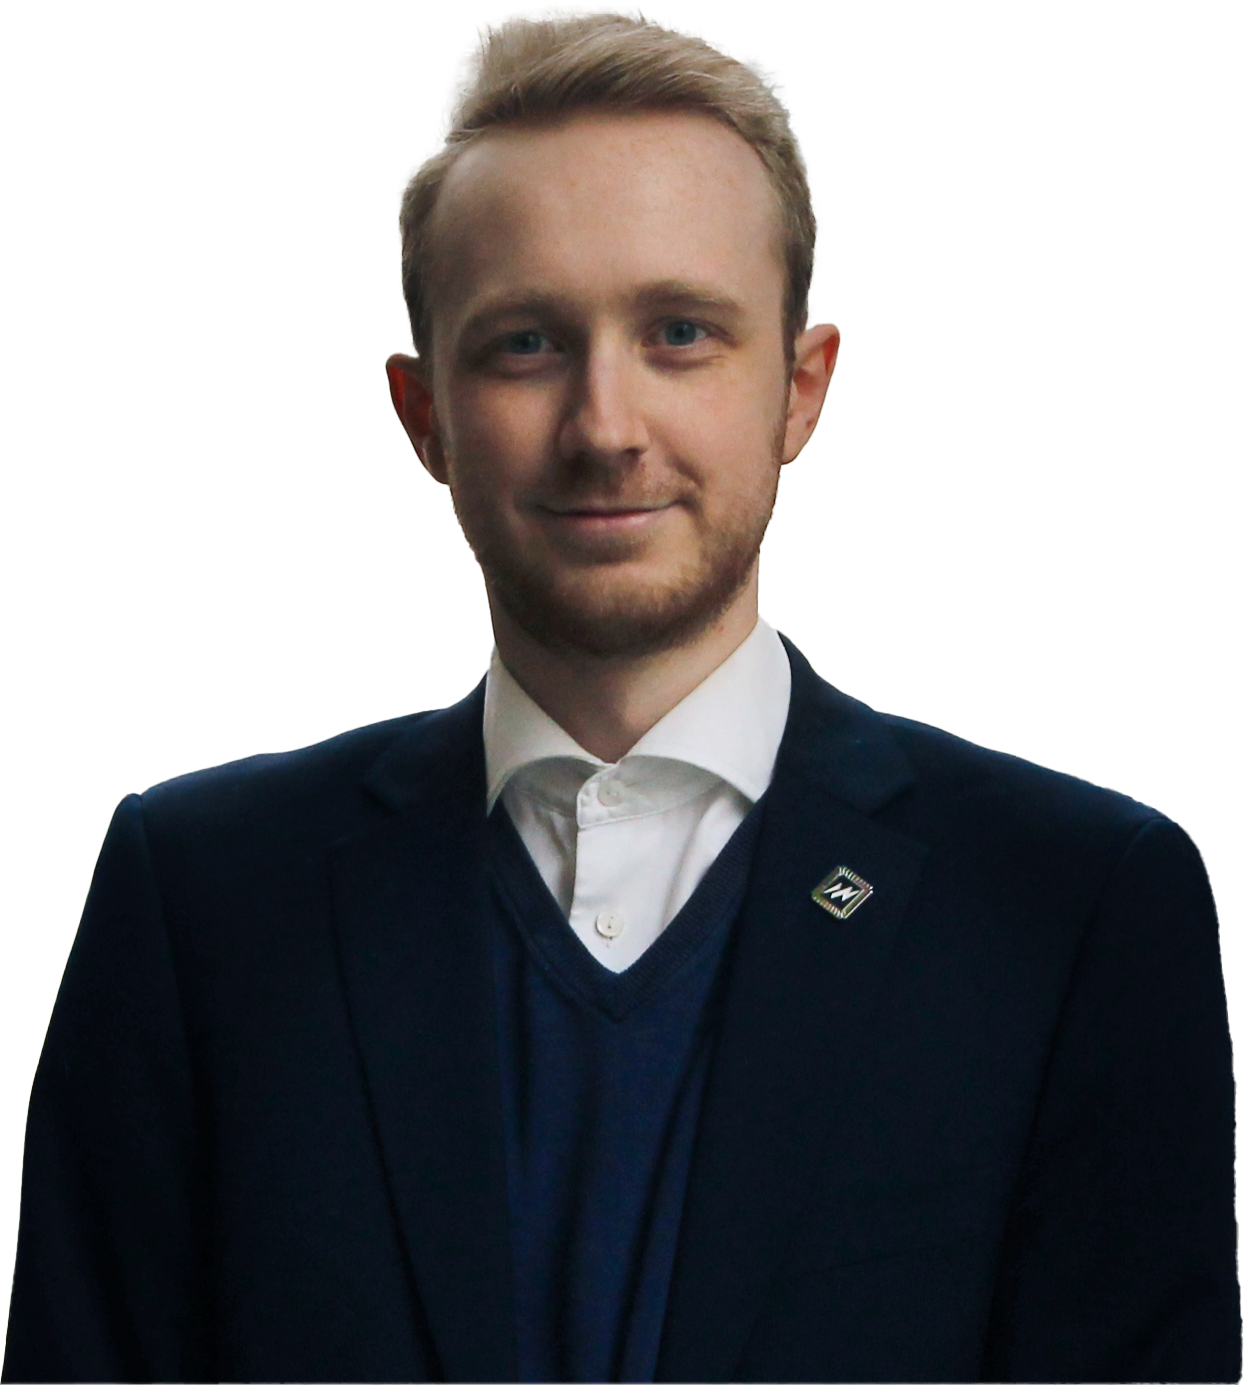
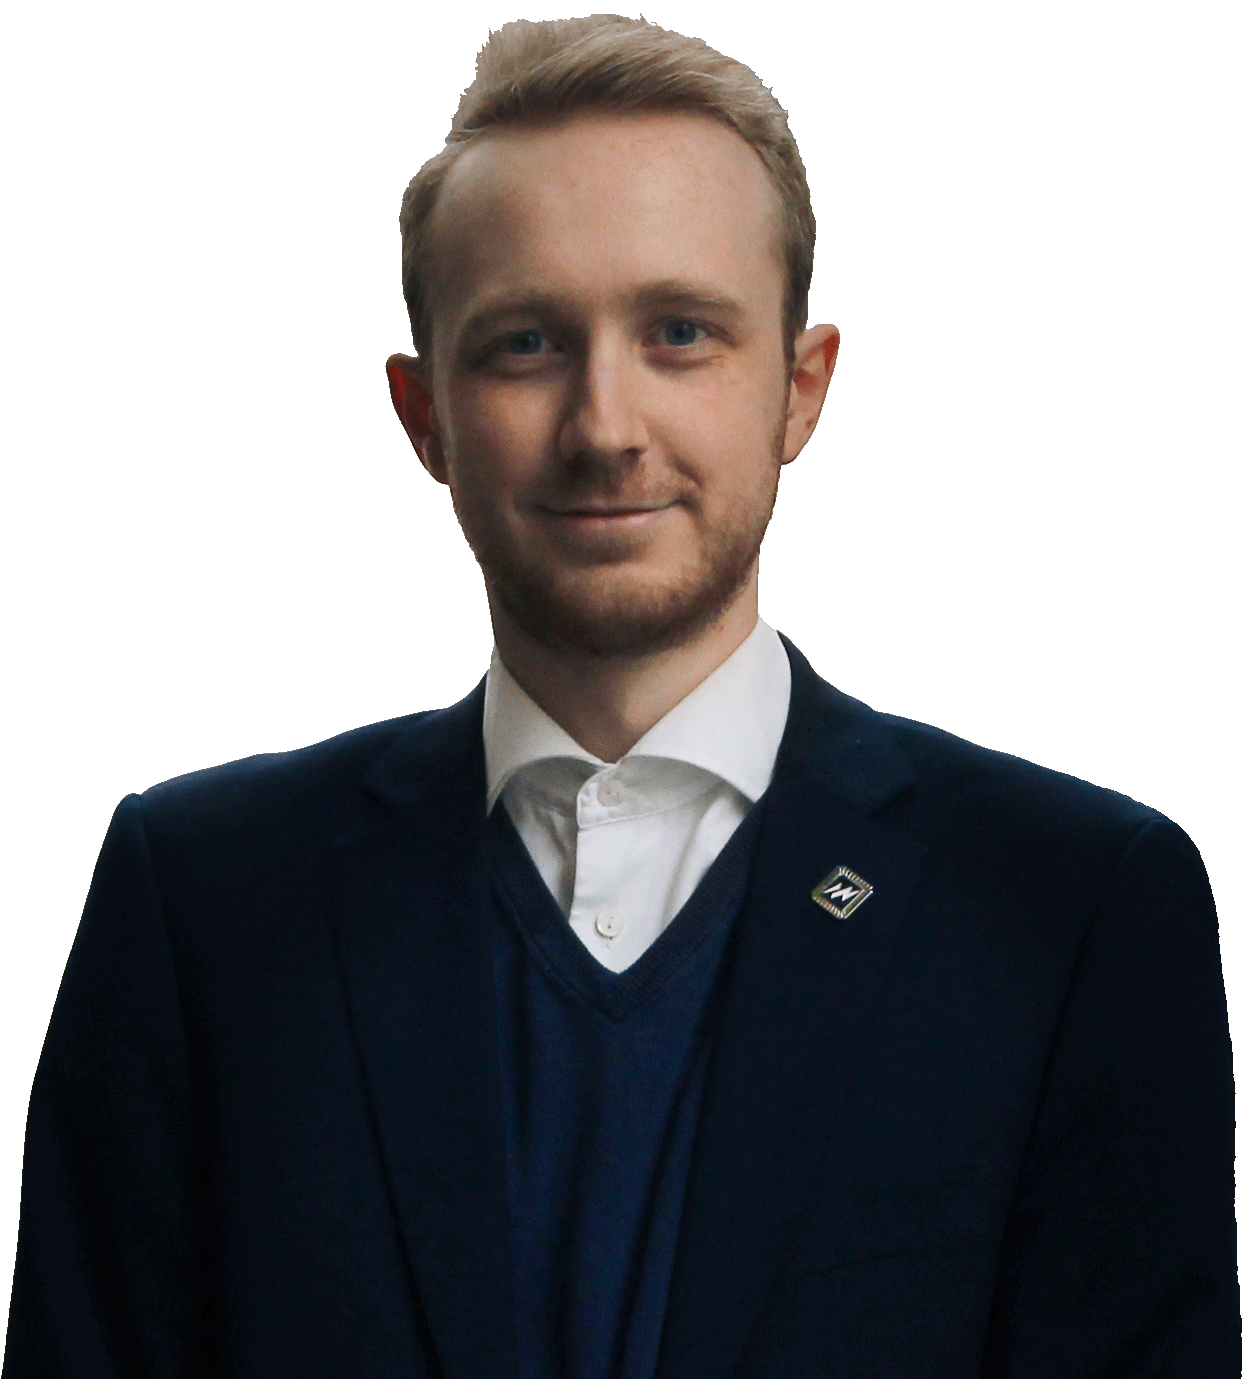
optimized png image and changed some names around.

diff --git a/src/app/page.js b/src/app/page.js
@@ -1,13 +1,18 @@
 
 "use client"
-import AboutSection from "./Pages/AboutSection";
-import ContactSection from "./Pages/ContactSection";
-import HeroSection from "./Pages/HeroSection";
-import ProjectSection from "./Pages/ProjectSection";
+import HeroSection from "./sections/HeroSection";
 import NavBar from "./components/NavBar";
-import { useEffect, useRef, useState, Profiler } from "react";
+import { useEffect, useRef, useState, lazy } from "react";
 import StarsBackground from "./components/SpaceBackground/StarsBackground";
 
+
+// import AboutSection from "./sections/AboutSection";
+// import ProjectSection from "./sections/ProjectSection";
+// import ContactSection from "./sections/ContactSection";
+
+const AboutSection = lazy(() => import("./sections/AboutSection"))
+const ProjectSection = lazy(() => import("./sections/ProjectSection"))
+const ContactSection = lazy(() => import("./sections/ContactSection"))
 
 
 export default function Home() {  
@@ -80,24 +85,27 @@ export default function Home() {
       // Background is already enabled. No need to run the check.
       return
     }
-    
-    const mobileRegex = /Mobi|Android|webOS|iPhone|iPad|iPod|BlackBerry|IEMobile|Opera Mini/i;
-    const firefoxRegex = /FireFox/i;
-
-    const isMobile = mobileRegex.test(navigator.userAgent);
-    const isFirefox = firefoxRegex.test(navigator.userAgent);
-    
-    if (!isMobile) {
-      // Device is not mobile, so canvas renders without problems.
-      setBackgroundEnabled(true)
-      return
+    try {
+      const mobileRegex = /Mobi|Android|webOS|iPhone|iPad|iPod|BlackBerry|IEMobile|Opera Mini/i;
+      const firefoxRegex = /FireFox/i;
+  
+      const isMobile = mobileRegex.test(navigator.userAgent);
+      const isFirefox = firefoxRegex.test(navigator.userAgent);
+      
+      if (!isMobile) {
+        // Device is not mobile, so canvas renders without problems.
+        setBackgroundEnabled(true)
+        return
+      }
+      if (!isFirefox) {
+        // Device is mobile, but is not using firefox so the canvas renders without problems.
+        setBackgroundEnabled(true)
+      }
+      // Device is mobile and is using firefox where the canvas seems to be behaving buggy, therefor it is not enabled.
+    } catch  (e) {
+      console.log(e)
     }
-    if (!isFirefox) {
-      // Device is mobile, but is not using firefox so the canvas renders without problems.
-      setBackgroundEnabled(true)
-    }
-    // Device is mobile and is using firefox where the canvas seems to be behaving buggy, therefor it is not enabled.
-
+    
   },[setBackgroundEnabled, backgroundEnabled])
 
 

diff --git a/src/app/sections/HeroSection.jsx b/src/app/sections/HeroSection.jsx
@@ -1,4 +1,4 @@
-import React, { useEffect } from 'react'
+import React, { useEffect, lazy } from 'react'
 import { TypeAnimation } from 'react-type-animation'
 import { motion, useMotionTemplate, animate, useMotionValue } from 'framer-motion'
 import ContactButton from '../components/HeroButtons/ContactButton';
@@ -115,7 +115,7 @@ const HeroSection = () => {
                         <img 
                             src={"/images/ProfilePhoto_Transparent.png"}
                             alt="hero image"
-                            fill
+                            layout='fill'
                             className='absolute select-none pointer-events-none mt-5 scale-[95%]'
                             style={{objectFit: "contain"}}
                         />

diff --git a/src/app/components/SpaceBackground/StarsBackground.jsx b/src/app/components/SpaceBackground/StarsBackground.jsx
@@ -3,7 +3,6 @@ import React from 'react'
 import { Canvas } from "@react-three/fiber";
 import { Stars } from "@react-three/drei";
 import { motion, useScroll , useTransform } from 'framer-motion'
-import AnimatedIcon from './AnimatedIcon';
 
 
 const StarsBackground = () => {
